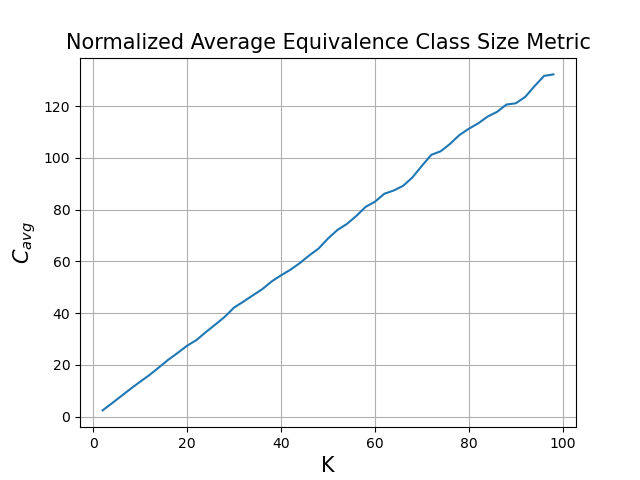
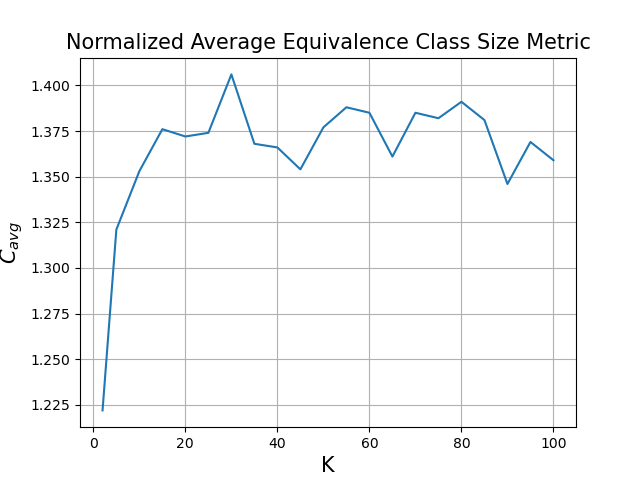
small issues

diff --git a/Project/plot_results.py b/Project/plot_results.py
@@ -29,6 +29,7 @@ def evaluate(dataset, k):
 
     # save result in a file
     dataset.data_anonymized = df_anonymize
+    dataset.save_anonymized(K)
 
     print("Total time:      ", execution_time)
 
@@ -81,7 +82,7 @@ if __name__ == "__main__":
     # print algorithm parameters
     print_args(args)
 
-    k_list = range(2, 100, 2)
+    k_list = [2] + list(range(5, 105, 5))
     dataset = data.Data(args.folder_name, args.dataset_name, args.columns_type, args.result_name)
 
     plot_and_save_evaluations(args=args, dataset=dataset, k_list=k_list)

diff --git a/Project/Dataset_synthetic/dataset_generator/database_generator.py b/Project/Dataset_synthetic/dataset_generator/database_generator.py
@@ -11,7 +11,7 @@ pd.set_option('display.width', 1000)
 # parameters for the data generation
 gender_map = {'boy': 'Male', 'girl': 'Female'}
 age_bound = [18, 105]
-n_entry = 2000000
+n_entry = 3000000
 
 # path & filename variable
 dataset_folder = "data"
